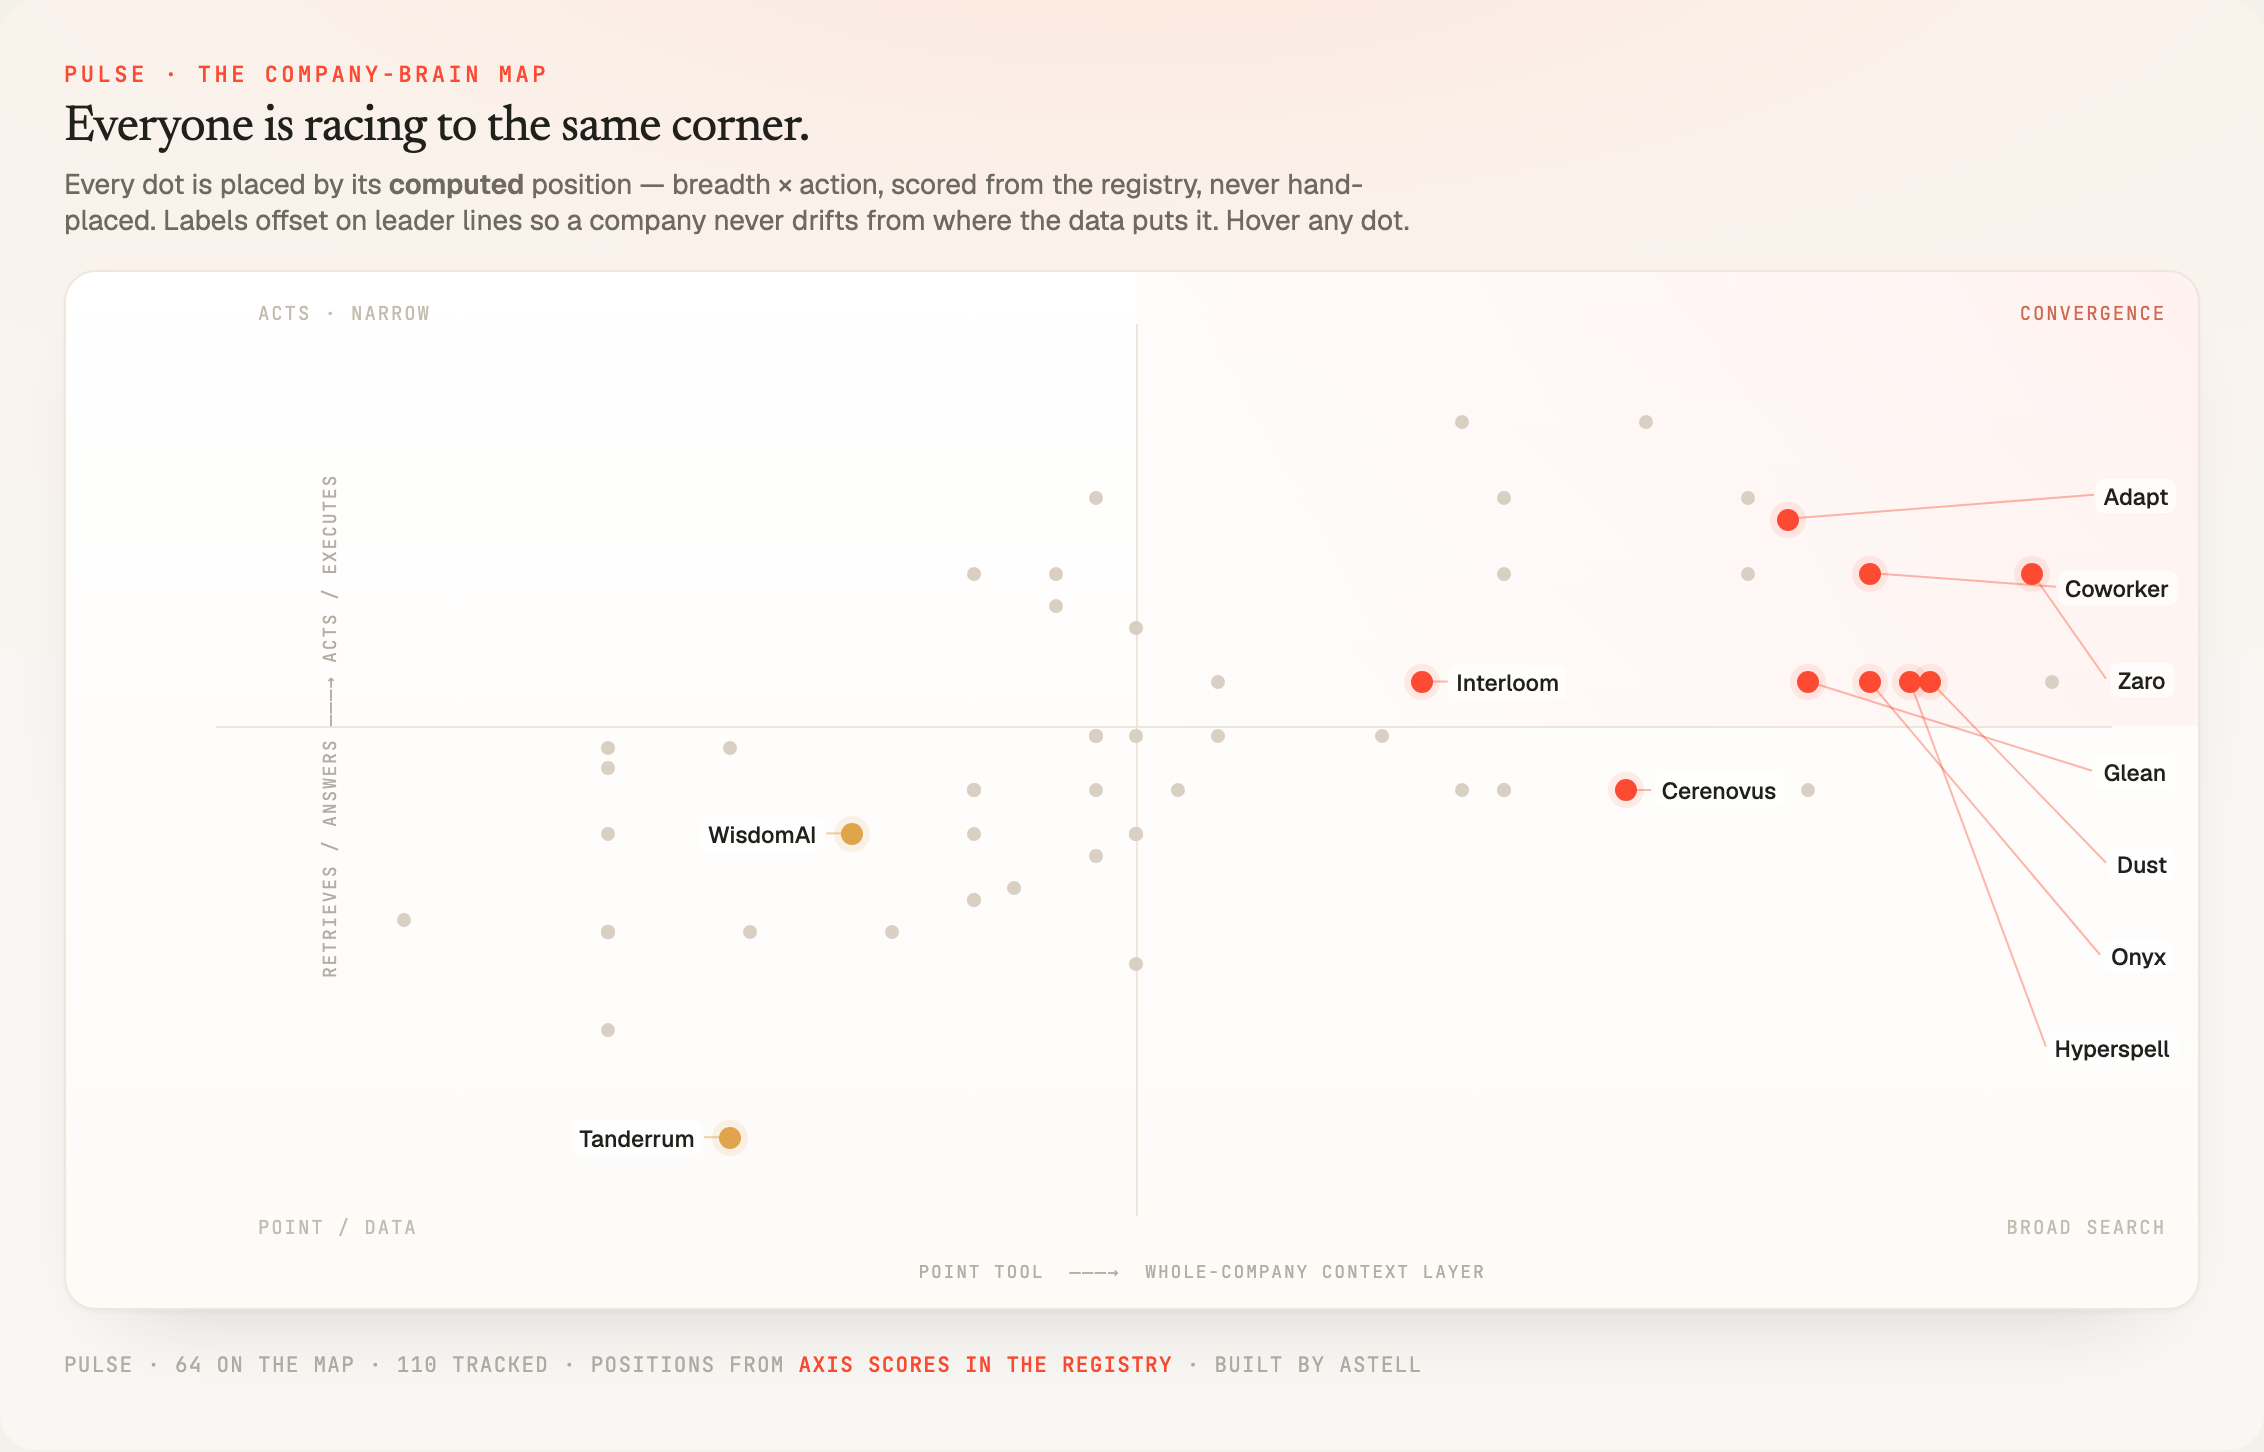
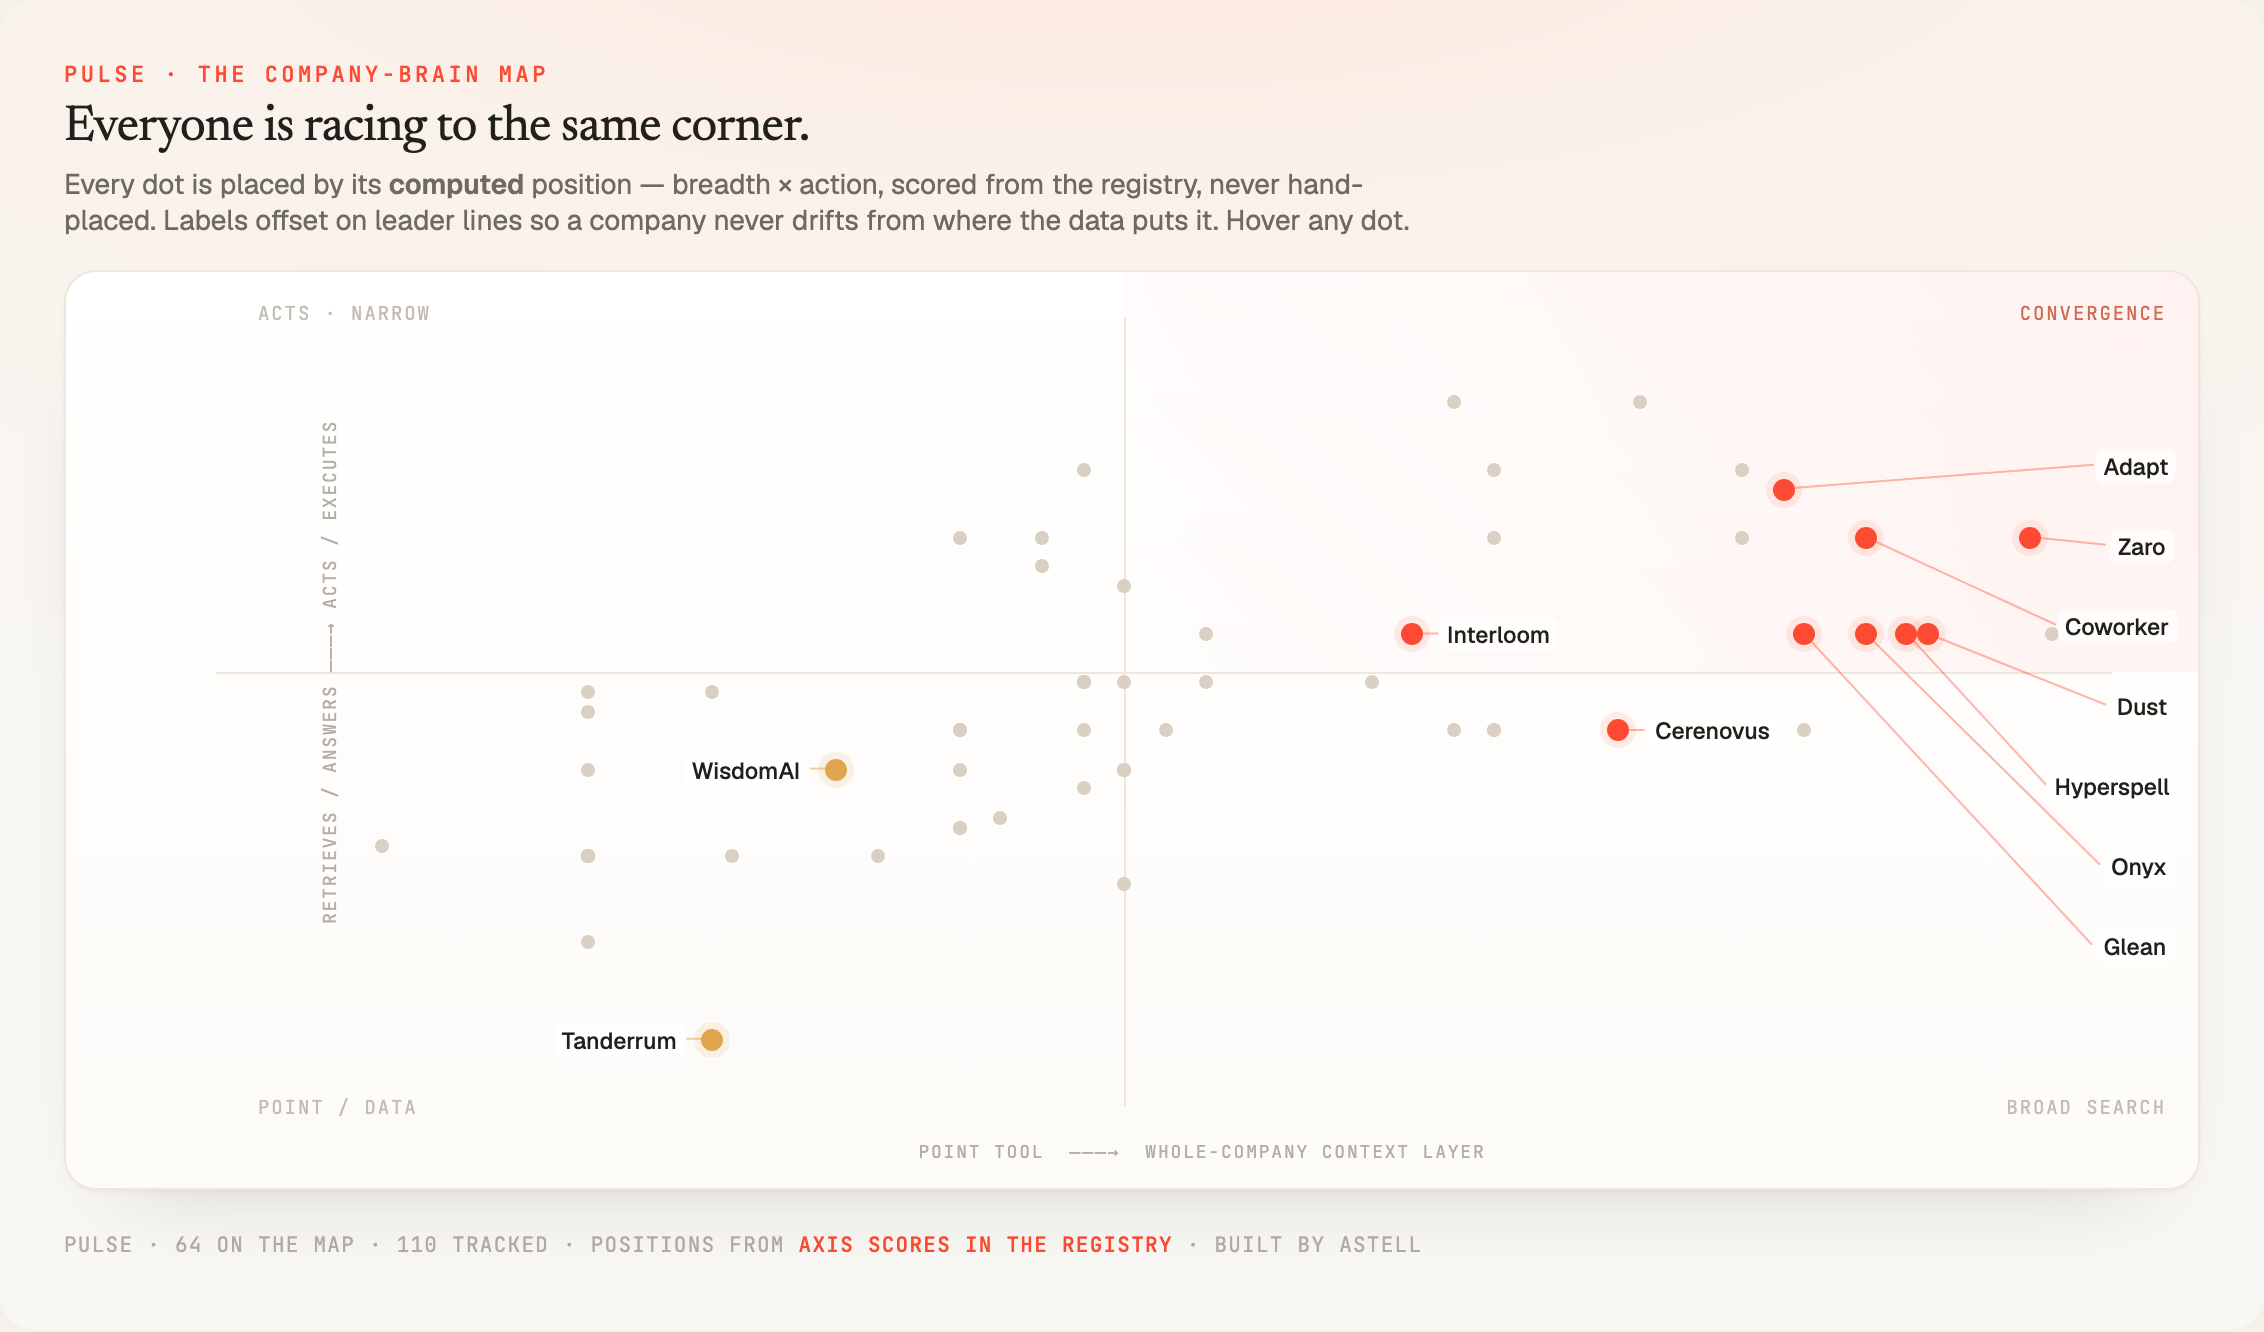
docs: densify the map (460px canvas, collision-free gutter) + camo cache-bust (#14)

diff --git a/README.md b/README.md
@@ -14,7 +14,7 @@ _Built by the team at [Astell](https://www.astell.ai)._
 
 Not a one-shot "analyze my competitors" prompt. Pulse accumulates across runs, dedupes by domain, flags new entrants, funding, acquisitions, and pivots, and ends each scan with a short decision digest backed by an anti-slop validator. The model only does the narrow judgment (find and score). Deterministic Python does everything that touches the record, which is why it runs on any model.
 
-![The competitive map Pulse renders: 64 companies plotted by breadth and action, every position computed from registry scores, never hand-placed](docs/demo-map.png)
+![The competitive map Pulse renders: 64 companies plotted by breadth and action, every position computed from registry scores, never hand-placed](docs/demo-map.png?v=3)
 
 ## What a scan produces
 